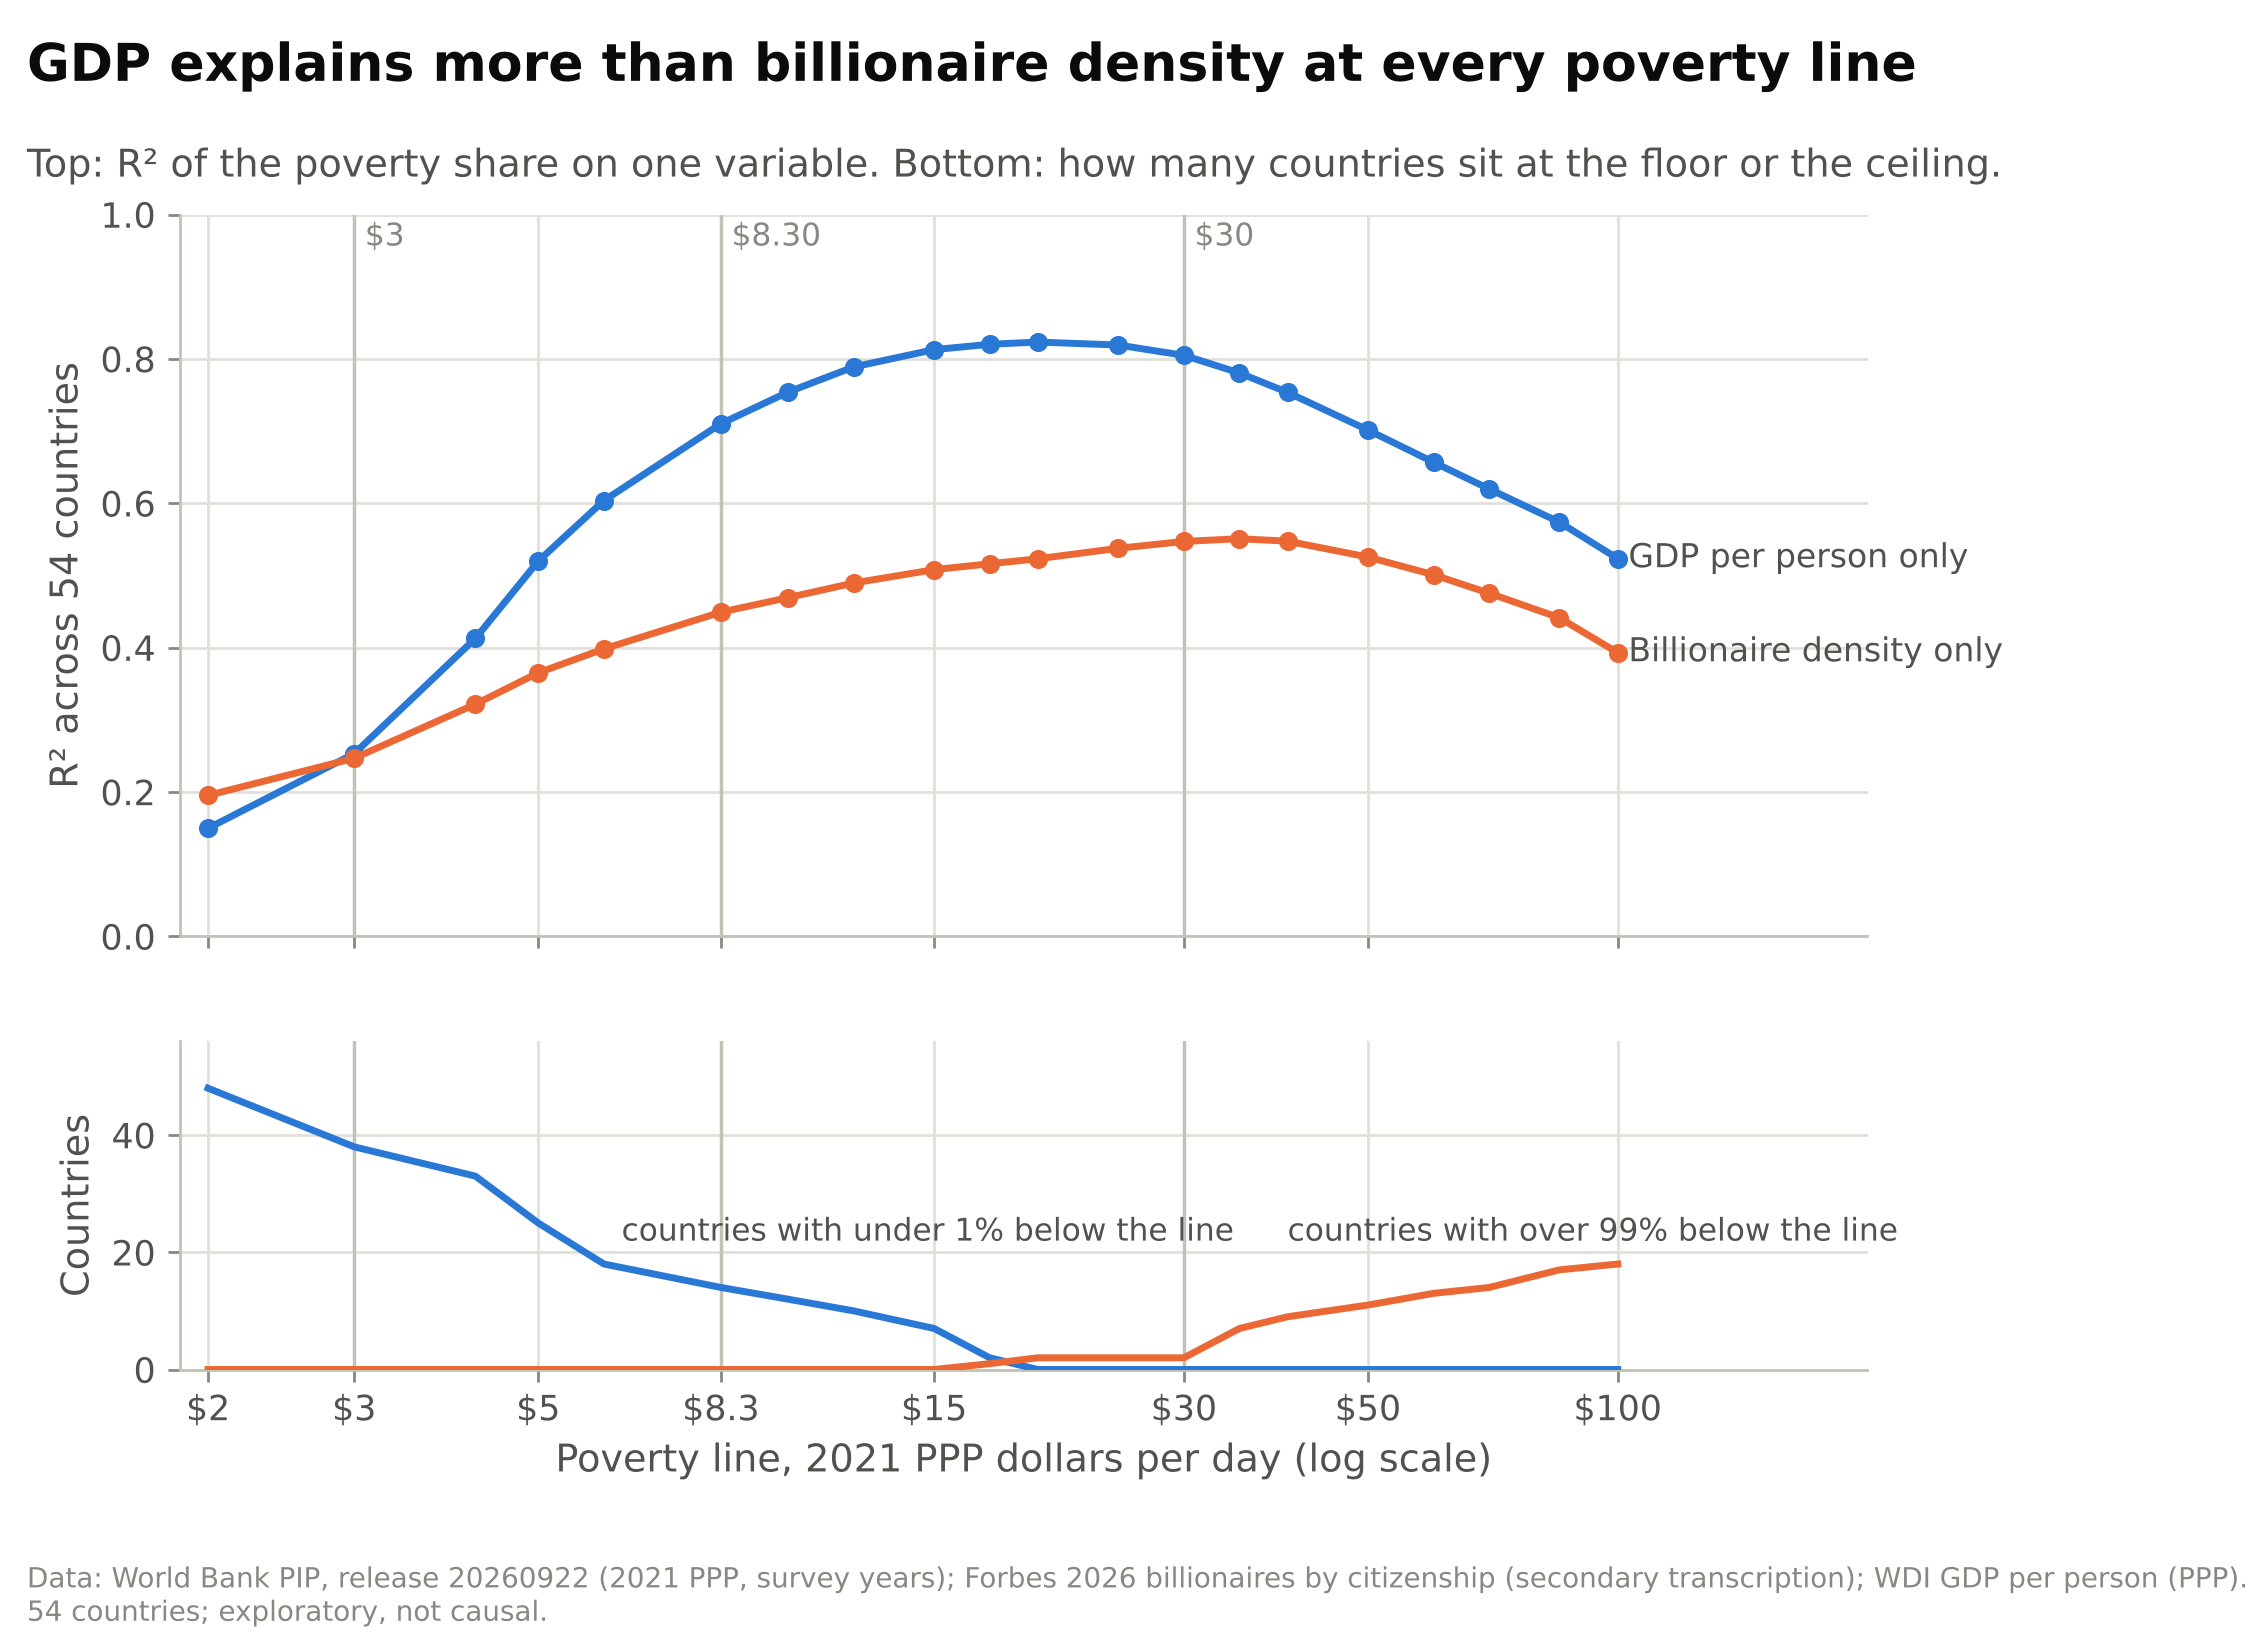
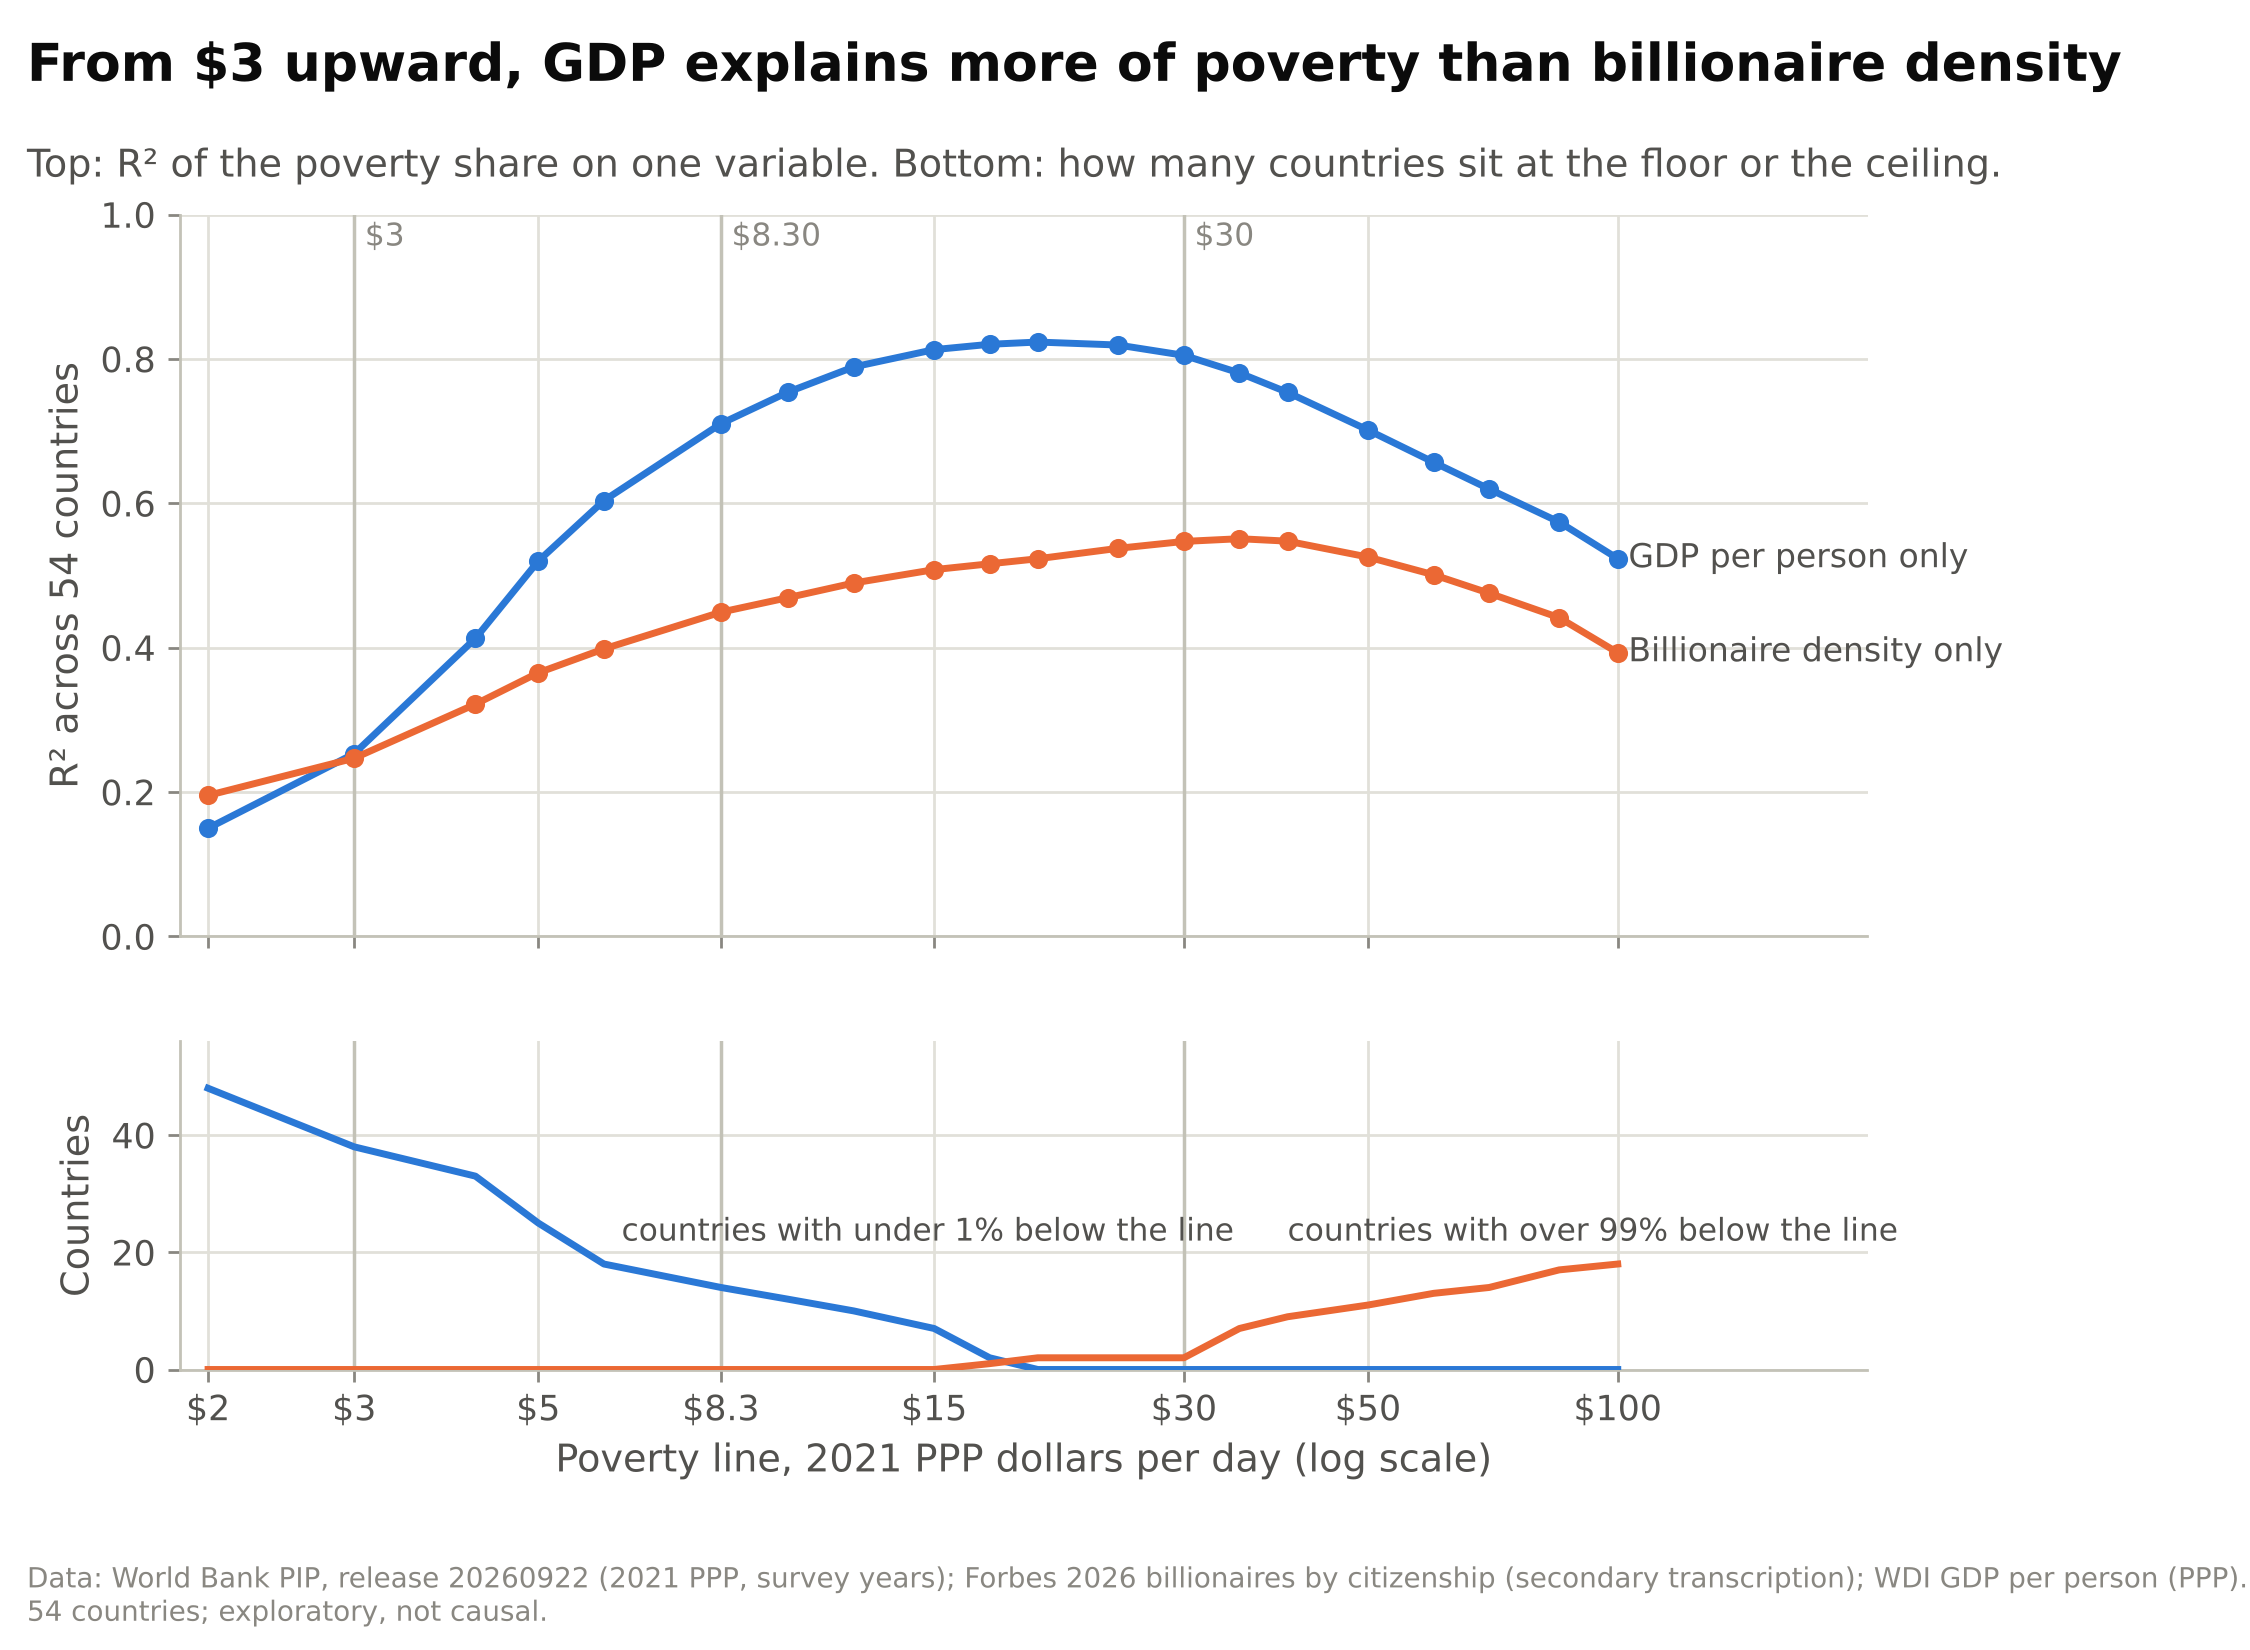
Part 1: correct Figure 2 title ($2 is the exception)

Changed region(s): [[0.0, 0.0, 0.9644, 0.0618]]

diff --git a/billionaires-poverty-followups/part1_poverty_lines.py b/billionaires-poverty-followups/part1_poverty_lines.py
@@ -347,7 +347,7 @@ def fig_r2(n: dict[str, Any], out: Path) -> None:
         _line_axis(a)
     ax.set_xlim(1.85, 200)
     ax2.set_xlabel("Poverty line, 2021 PPP dollars per day (log scale)")
-    _frame(fig, "GDP explains more than billionaire density at every poverty line",
+    _frame(fig, "From $3 upward, GDP explains more of poverty than billionaire density",
            "Top: R² of the poverty share on one variable. Bottom: how many countries sit at the floor or the ceiling.",
            top=0.87, right=0.83)
     fig.savefig(out, dpi=250)
